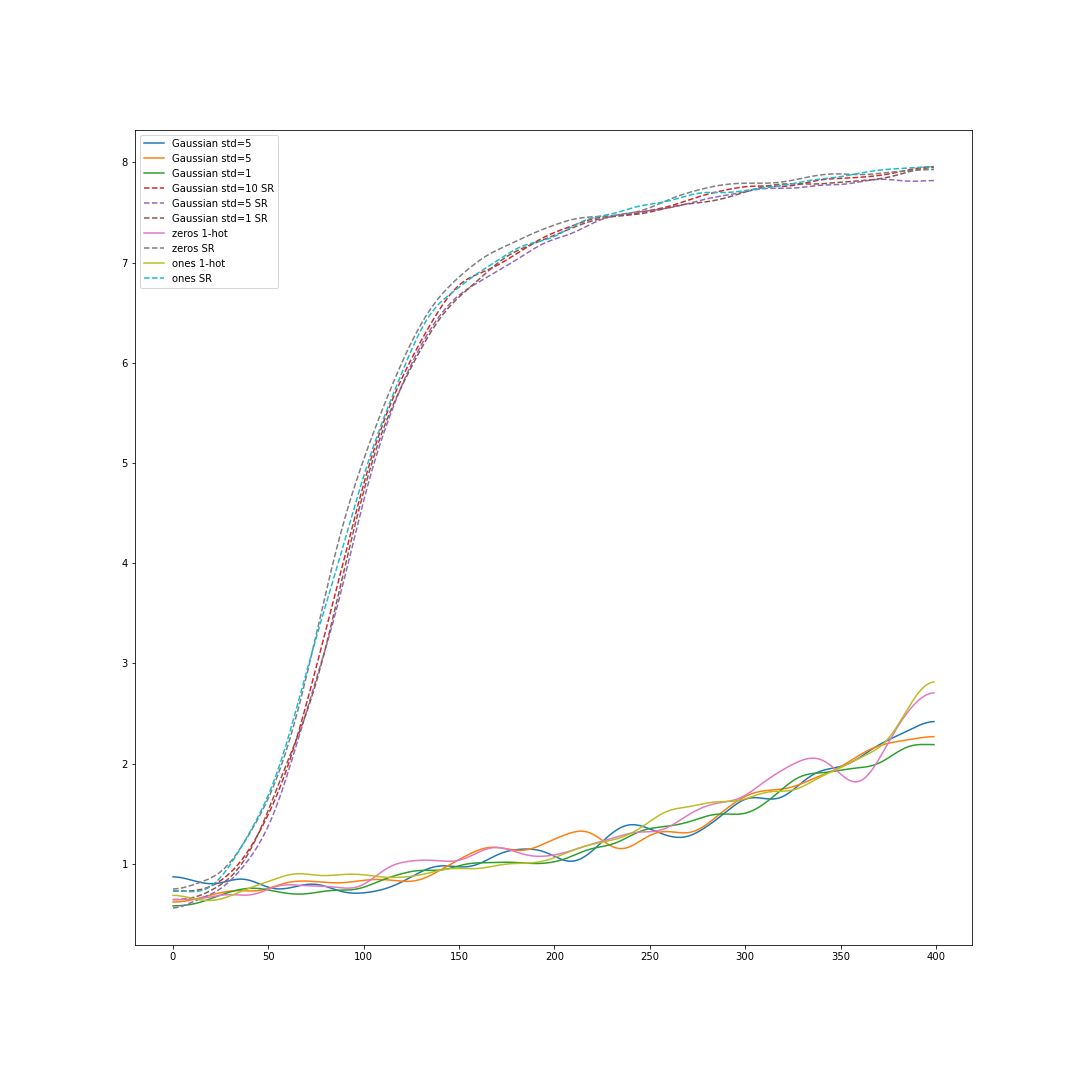
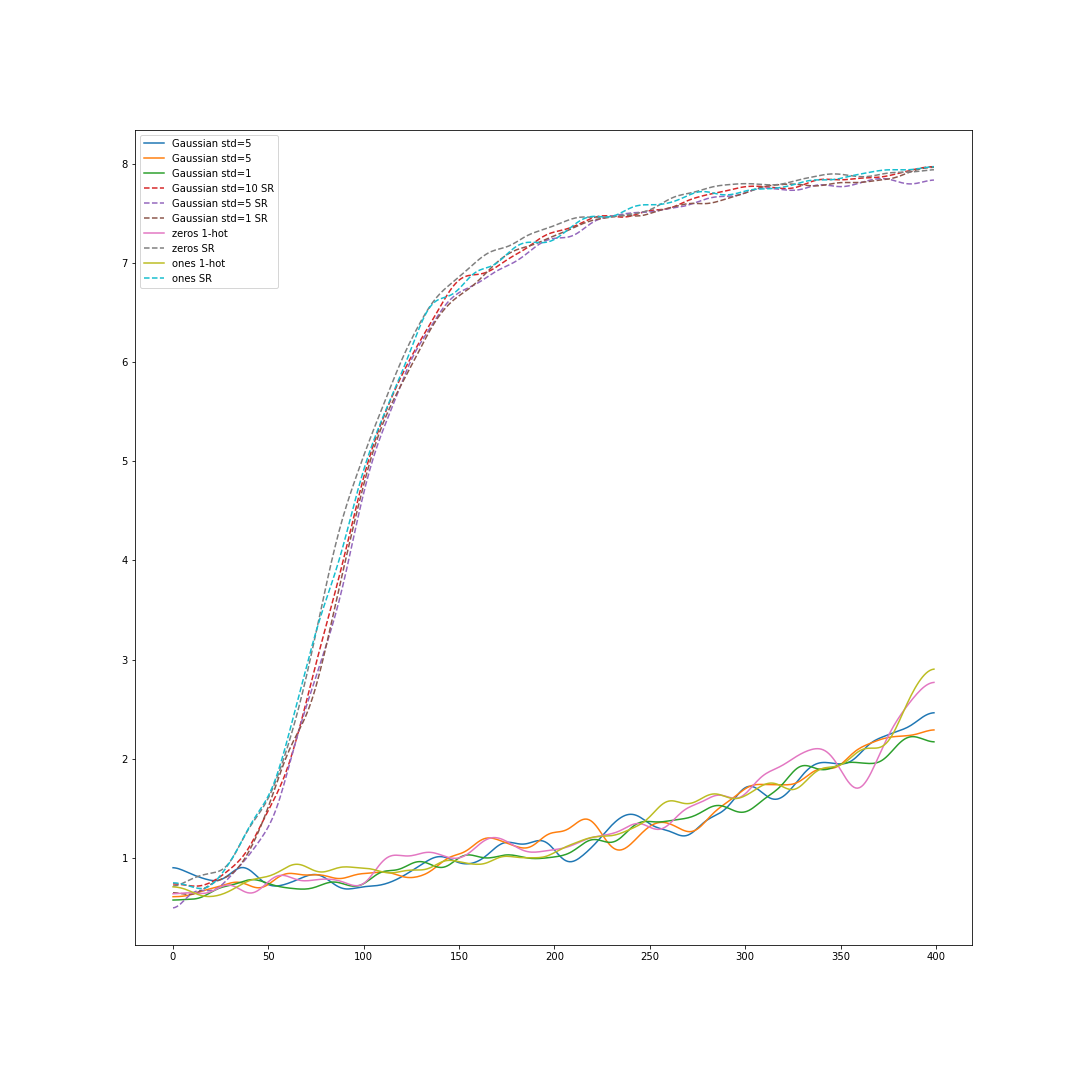
wip

diff --git a/hw-5/sr-ac/sr_ac_template.py b/hw-5/sr-ac/sr_ac_template.py
@@ -580,19 +580,20 @@ for label, init_func in initialization_types.items():
 # %%
 
 plt.figure(figsize=(15, 15))
-plt.plot(gaussian_filter(one_hot_earned_rewards_map[("gaussian", (10,))].mean(axis=0), 10), label="Gaussian std=5")
-plt.plot(gaussian_filter(one_hot_earned_rewards_map[("gaussian", (5,))].mean(axis=0), 10), label="Gaussian std=5")
-plt.plot(gaussian_filter(one_hot_earned_rewards_map[("gaussian", (1,))].mean(axis=0), 10), label="Gaussian std=1")
+filter_size = 7
+plt.plot(gaussian_filter(one_hot_earned_rewards_map[("gaussian", (10,))].mean(axis=0), filter_size), label="Gaussian std=5")
+plt.plot(gaussian_filter(one_hot_earned_rewards_map[("gaussian", (5,))].mean(axis=0), filter_size), label="Gaussian std=5")
+plt.plot(gaussian_filter(one_hot_earned_rewards_map[("gaussian", (1,))].mean(axis=0), filter_size), label="Gaussian std=1")
 
-plt.plot(gaussian_filter(sr_earned_rewards_map[("gaussian", (10,))].mean(axis=0), 10), label="Gaussian std=10 SR", linestyle='--')
-plt.plot(gaussian_filter(sr_earned_rewards_map[("gaussian", (5,))].mean(axis=0), 10), label="Gaussian std=5 SR", linestyle='--')
-plt.plot(gaussian_filter(sr_earned_rewards_map[("gaussian", (1,))].mean(axis=0), 10), label="Gaussian std=1 SR",linestyle='--')
+plt.plot(gaussian_filter(sr_earned_rewards_map[("gaussian", (10,))].mean(axis=0), filter_size), label="Gaussian std=10 SR", linestyle='--')
+plt.plot(gaussian_filter(sr_earned_rewards_map[("gaussian", (5,))].mean(axis=0), filter_size), label="Gaussian std=5 SR", linestyle='--')
+plt.plot(gaussian_filter(sr_earned_rewards_map[("gaussian", (1,))].mean(axis=0), filter_size), label="Gaussian std=1 SR",linestyle='--')
 
-plt.plot(gaussian_filter(one_hot_earned_rewards_map[("zeros", (0,))].mean(axis=0), 10), label="zeros 1-hot")
-plt.plot(gaussian_filter(sr_earned_rewards_map[("zeros", (0,))].mean(axis=0), 10), label="zeros SR", linestyle='--')
+plt.plot(gaussian_filter(one_hot_earned_rewards_map[("zeros", (0,))].mean(axis=0), filter_size), label="zeros 1-hot")
+plt.plot(gaussian_filter(sr_earned_rewards_map[("zeros", (0,))].mean(axis=0), filter_size), label="zeros SR", linestyle='--')
 
-plt.plot(gaussian_filter(one_hot_earned_rewards_map[("ones", (1,))].mean(axis=0), 10), label="ones 1-hot")
-plt.plot(gaussian_filter(sr_earned_rewards_map[("ones", (1,))].mean(axis=0), 10), label="ones SR", linestyle='--')
+plt.plot(gaussian_filter(one_hot_earned_rewards_map[("ones", (1,))].mean(axis=0), filter_size), label="ones 1-hot")
+plt.plot(gaussian_filter(sr_earned_rewards_map[("ones", (1,))].mean(axis=0), filter_size), label="ones SR", linestyle='--')
 
 plt.legend()
 plt.savefig("value_initialization.png")
